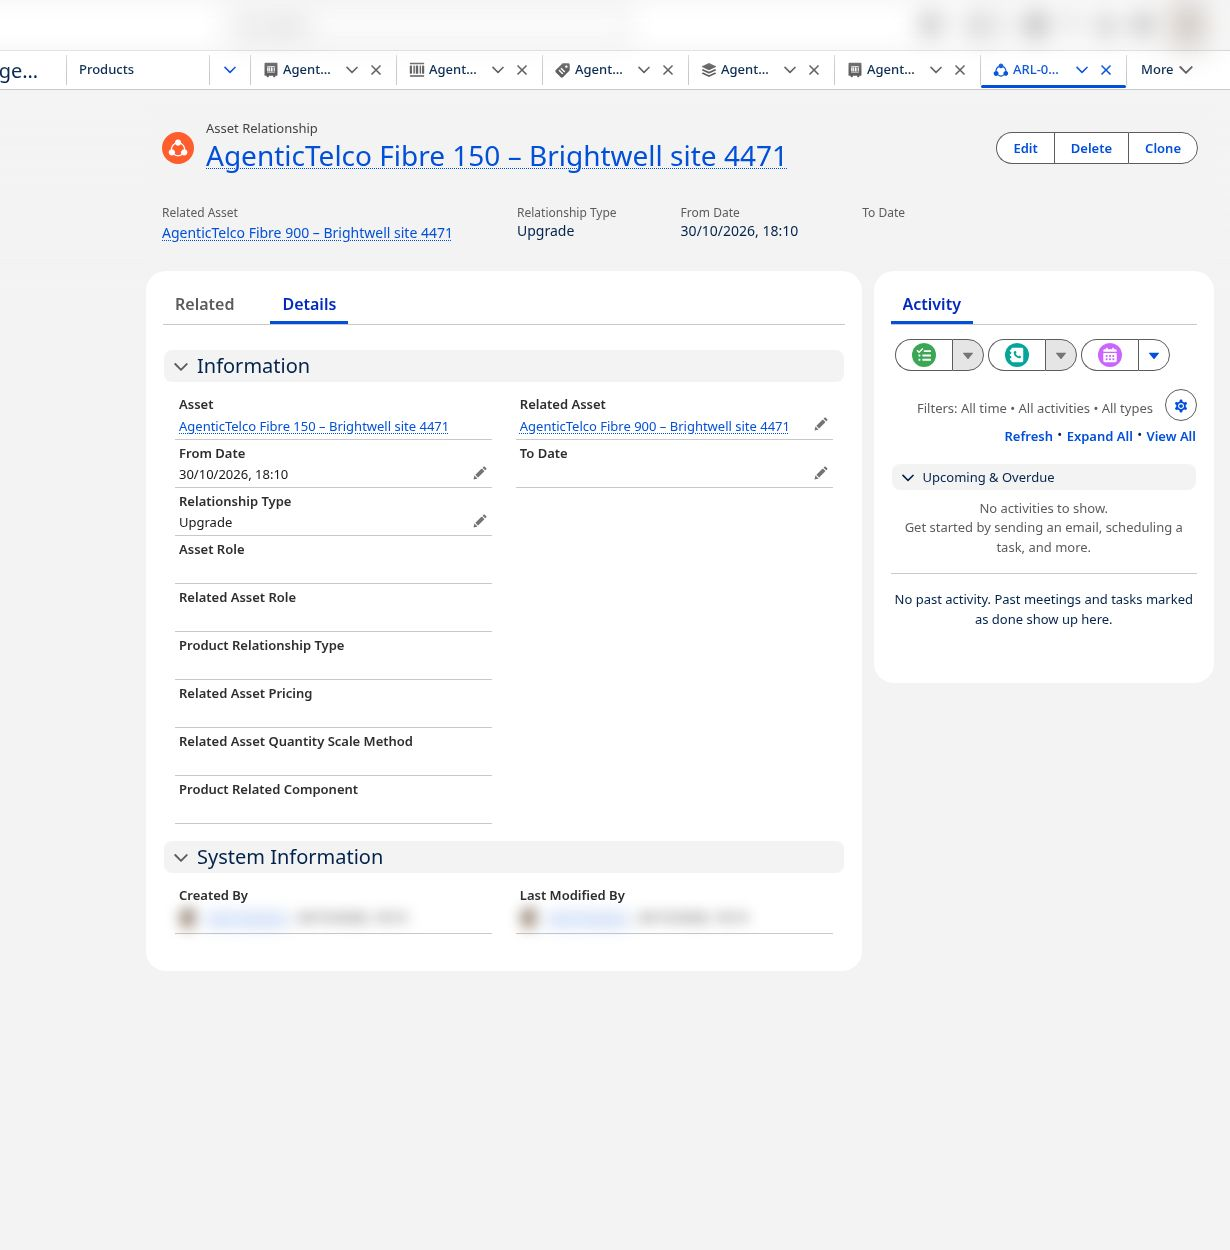
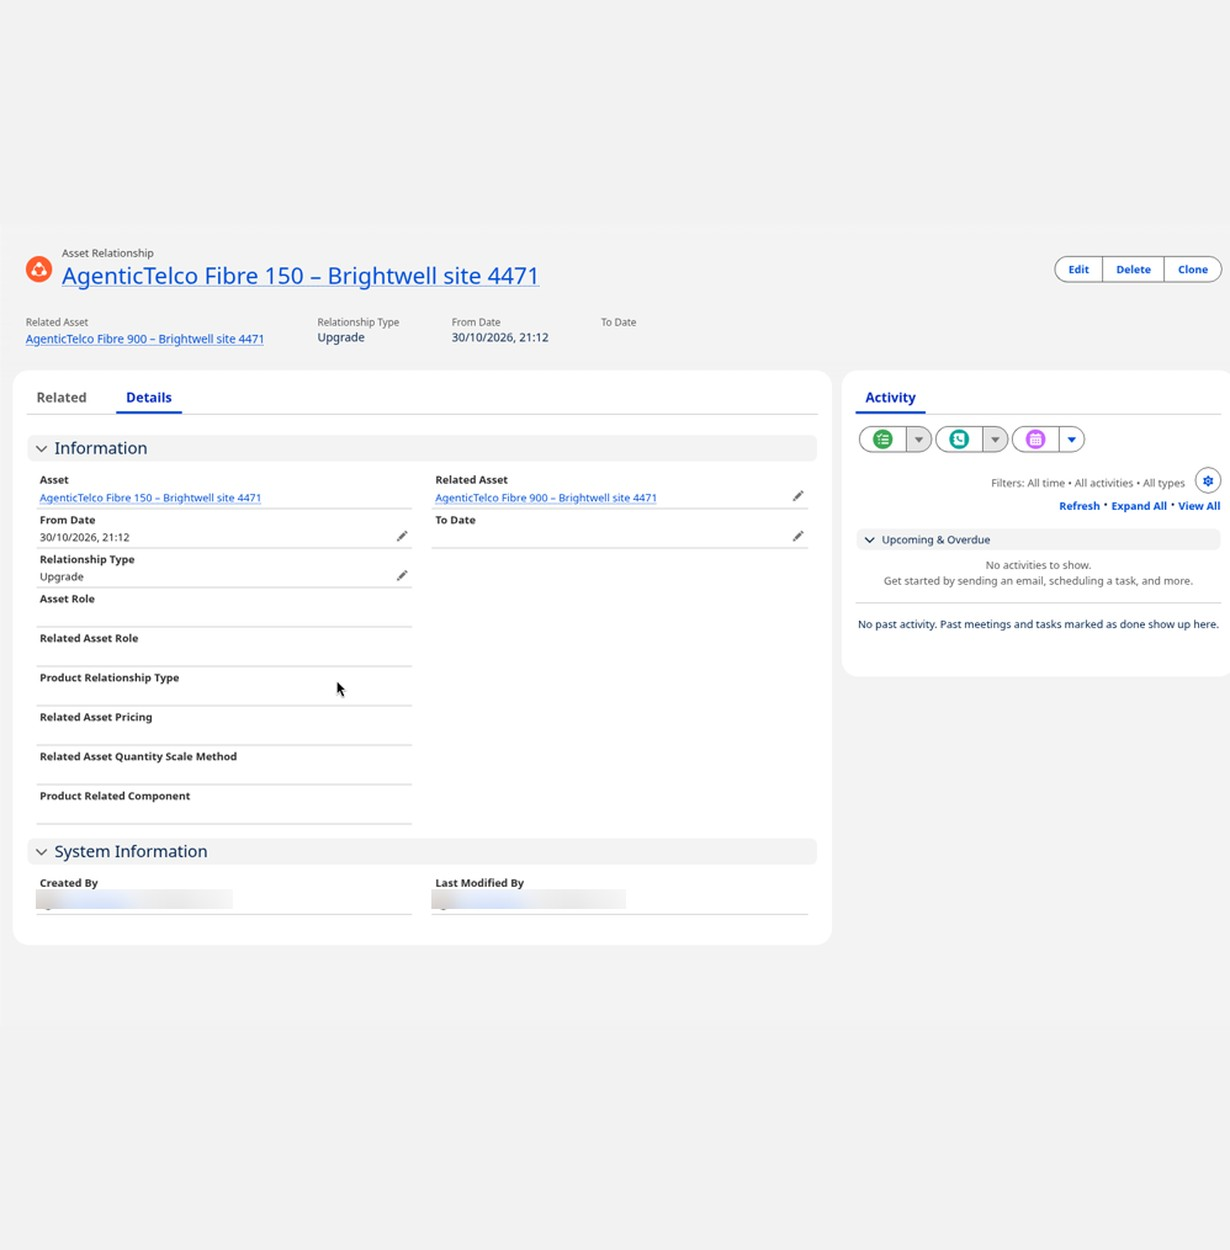
MVP evidence: add order 00000173 and its upgrade relationship shots; hold back quote 00000127 shot; gallery 01-07

diff --git a/TEST_RESULTS.md b/TEST_RESULTS.md
@@ -39,7 +39,7 @@ Qwen3-4B-Instruct-2507 is the only model that called the tools correctly, so it 
 
 - Each case resets the seed first, so the org now holds the happy-path end state (recorded last); the delayed run's Fibre 900 is Obsolete again, and the verifier allows for that by comparing recording times.
 - The happy-path recording is the run after the account was renamed to Brightwell Design Ltd (order 00000173, recorded 21:12 UK, regenerated from its stored conversation and audit trail); it is the last write case, so the org holds its end state.
-- Salesforce evidence screenshots (`web/src/mvp/evidence/`, 01–07): account and contact, the quote, then Fibre 150 Obsolete, Fibre 900 Installed (order 00000173), the Upgrade relationship and the Apex facade classes. No 'before' shot of Fibre 150: the org now holds the after state.
+- Salesforce evidence screenshots (`web/src/mvp/evidence/`, 01–07), for the order 00000173 run: account and contact, order 00000173 (Activated, one Fibre 900 line at £45.00), Fibre 150 Obsolete, Fibre 900 Installed, the Upgrade relationship (From Date 30/10/2026 21:12) and the Apex facade classes. No 'before' shot of Fibre 150 (the org now holds the after state); the quote shot is held back pending a decision.
 
 ## What is real and what is mocked in the MVP
 
